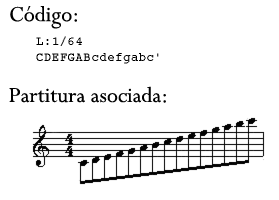
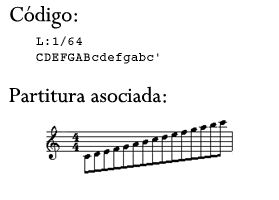
+ todos los cambios hechos a la doc

Changed region(s): [[0.1147, 0.57, 0.9462, 0.93]]

diff --git a/doc/16_conclusiones.tex b/doc/16_conclusiones.tex
@@ -7,10 +7,10 @@ El objetivo inicial del proyecto era, como se ha detallado a lo largo del docume
 
 
 
-Para llevar a cabo la aplicación, ésta se ha dividido en dos módulos independientes que trabajan de forma secuencial: el módulo de análisis de imagen en primer lugar, y el módulo encargado de la composición musical en segundo; los cuales se pueden asemejar a la etapa de estimulación visual y a la etapa de estimulación auditiva, respectivamente. Esta distinción ha dado la posibilidad de estudiar y probar las etapas de forma independiente y así poder experimentar las diferentes formas de abordar la interpretación música-imagen. Cabe destacar que, dado que esta relación debe ser objetiva y no dependiente de consideraciones culturales o personales (por especificación del sistema), se ha elegido la sinestesia como método de asociación entre la percepción visual y la auditiva.\\
+Para llevar a cabo la aplicación, ésta se ha dividido en dos módulos independientes que trabajan de forma secuencial: el módulo de análisis de imagen en primer lugar, y el módulo encargado de la composición musical en segundo; los cuales se pueden asemejar a la etapa de estimulación visual y a la etapa de estimulación auditiva, respectivamente. Esta distinción ha dado la posibilidad de estudiar y probar las etapas de manera independiente y así poder experimentar las diferentes formas de abordar la interpretación música-imagen. Cabe destacar que, dado que esta relación debe ser objetiva y no dependiente de consideraciones culturales o personales (por especificación del sistema), se ha elegido la sinestesia como método de asociación entre la percepción visual y la auditiva.\\
 
 
-Por un lado, el módulo de análisis ha resultado ser capaz de transformar cualquier tipo de imagen de entrada en una representación propia del sistema de forma suficientemente fiel en un espacio de tiempo corto (segundos): dada una correcta configuración de parámetros por parte del usuario, las imágenes de grandes dimensiones pueden ser tratadas con menos nivel de detalle para aumentar su velocidad. Además, se puede cambiar la manera de reconocer formas alternando entre los distintos algoritmos de análisis, permitiendo al usuario experimentar con la forma en la que quiere que una imagen sea captada. La correcta elaboración de este módulo ha sido una pieza clave para el desarrollo del proyecto ya que, aunque no sea el objetivo principal del mismo, proporciona la entrada al módulo de composición y por tanto una pieza clave para el perfecto funcionamiento de la generación de música.\\
+Por un lado, el módulo de análisis ha resultado ser capaz de transformar cualquier tipo de imagen de entrada en una representación propia del sistema de forma suficientemente fiel en un espacio de tiempo corto (segundos): dada una correcta configuración de parámetros por parte del usuario, las imágenes de grandes dimensiones pueden ser tratadas con menos nivel de detalle para aumentar su velocidad. Además, se puede cambiar la manera de reconocer formas alternando entre los distintos algoritmos de análisis, permitiendo al usuario experimentar con la forma en la que quiere que una imagen sea captada. La correcta elaboración de este módulo ha sido esencial para el desarrollo del proyecto ya que, aunque no sea el objetivo principal del mismo, proporciona la entrada al módulo de composición y por tanto es una pieza clave para el perfecto funcionamiento de la generación de música.\\
 
 Por otro lado, el módulo de composición ha cumplido con las expectativas mencionadas a lo largo del documento, siendo capaz de componer piezas musicales completamente originales que, si bien no buscan propiedades como ser ``pegadizas'', en ningún momento dejan de ser agradables al oído. Además, el módulo permite al usuario cambiar la forma de componer cada voz, así como los instrumentos con los que se interpretará cada una de ellas.\\
 
@@ -76,10 +76,10 @@ existen actualmente compositores algorítmicos que toman como entrada los parám
 
 		\item\textit{Ampliación de descripción del color de una figura:} la aplicación actual, con el objetivo de simplificar el proceso de análisis, sólo reconoce un color para cada figura reconocida. Sin embargo, la figura puede experimentar dentro de ella una variación de colores (aunque sea dentro de pequeños rangos), hecho que el sistema simplifica calculando el color medio. Esta ampliación consistiría en investigar una manera de detectar esa variación interna de color de forma que se consiga una representación más fiel de la figura.
 	\end{itemize}
-	
+
 \item\textbf{Portar la aplicación a sistemas Apple.} Con esto se conseguiría expandir el número de posibles usuarios de la aplicación. Dado que las máquinas con sistema operativo de Apple funcionan con UNIX como base, esta ampliación puede resultar muy sencilla si se parte de la versión para Linux de la aplicación.
 
-\item\textbf{Portar la aplicación a sistemas móviles.} Una de las ideas iniciales que se debatieron antes de comenzar el desarrollo de la aplicación fue la de implementar el sistema como una aplicación móvil. Sin embargo, al realizar el estudio de alcance del proyecto y el tiempo de desarrollo del mismo, se desechó la idea. Sin embargo, una aplicación de esta índole puede alcanzar un gran éxito en estos dispositivos ya que las cámaras integradas de los mismos proporcionan una entrada gráfica fácil y sencilla, lo cual sumado a la facilidad de uso del sistema, proporcionan a la aplicación un gran atractivo.\\ 
+\item\textbf{Portar la aplicación a sistemas móviles.} Una de las ideas iniciales que se debatieron antes de comenzar el desarrollo de la aplicación fue la de implementar el sistema como una aplicación móvil. Sin embargo, al realizar el estudio de alcance del proyecto y el tiempo de desarrollo del mismo, se desechó la idea. Sin embargo, una aplicación de esta índole puede alcanzar un gran éxito en estos dispositivos ya que las cámaras integradas de los mismos proporcionan una entrada gráfica fácil y sencilla, lo cual sumado a la facilidad de uso del sistema proporcionan a la aplicación un gran atractivo.\\ 
 
 El sistema se ha diseñado para facilitar la implementación de dicha ampliación, eligiendo librerías disponibles tanto en sistemas operativos de ordenadores personales como de dispositivos móviles (ver Sección~\ref{chap:techs}).\\
 

diff --git a/doc/7_intro.tex b/doc/7_intro.tex
@@ -73,11 +73,11 @@ A continuación, se procede a explicar las diferentes características del siste
 
 El diseño realizado para el sistema, incluyendo la especificación de los algoritmos usados tanto en el análisis de imagen como en la composición musical, se presenta en el Capítulo~\ref{chap:diseno}, \textit{\nameref{chap:diseno}}. En él, se detallan los usuarios a los que está orientada la aplicación, así como la totalidad de los requisitos que detallan las funcionalidades de la aplicación final. En el resto del capítulo se expone la especificación de los algoritmos desarrollados, ya sean pertenecientes a la fase de análisis o a la fase de composición musical.\\
 
-En el siguiente Capítulo, \textit{\nameref{chap:arquitectura}}, se detalla de forma exhaustiva la implementación el sistema mediante el estándar UML. Cada sección de este capítulo hace referencia a cada uno de los módulos en los que se ha dividido la arquitectura del sistema, con la excepción de las dos primeras secciones. En ellas, se define la estructura diseñada e implementada en dos piezas claves en la realización de este proyecto: el formato de representación interna de una imagen y el de una pieza musical. Estos formatos y sus correspondientes implementaciones son usados por todos los módulos definidos a continuación. Estos módulos se ordenan en el documento por orden de importancia, siendo el primero de ellos el módulo de composición de música, seguido del módulo de análisis de imagen. Finalmente se tiene en cuenta tanto el módulo que se encarga de unificar los anteriores módulos mencionados como la interfaz gráfica desarrollada para facilitar el uso de la aplicación.\\
+En el siguiente Capítulo, \textit{\nameref{chap:arquitectura}}, se detalla de forma exhaustiva la implementación del sistema mediante el estándar UML. Cada sección de este capítulo hace referencia a cada uno de los módulos en los que se ha dividido la arquitectura del sistema, con la excepción de las dos primeras secciones. En ellas, se define la estructura diseñada e implementada de dos piezas claves en la realización de este proyecto: el formato de representación interna de una imagen y el de una pieza musical. Estos formatos y sus correspondientes implementaciones son usados por todos los módulos definidos a continuación. Estos módulos se ordenan en el documento por orden de importancia, siendo el primero de ellos el módulo de composición de música, seguido del módulo de análisis de imagen. Finalmente se tiene en cuenta tanto el módulo que se encarga de unificar los anteriores módulos mencionados como la interfaz gráfica desarrollada para facilitar el uso de la aplicación.\\
 
 El contenido principal del documento finaliza en el Capítulo~\ref{chap:results}, \textit{\nameref{chap:results}}. En él, se repasa el desarrollo del proyecto y los objetivos cumplidos a lo largo del mismo, dando una visión global del sistema implementado. Posteriormente se procede a explicar los diferentes usos y mercados a los que está destinada la aplicación, así como las posibles ampliaciones que se podrían realizar sobre el sistema si se continuara su desarrollo.\\
 
-De forma adicional, el documento presenta un anexo en el que puntualiza las tecnologías usadas en los diferentes módulos que componen la aplicación. Este es el Anexo~\ref{chap:techs}, \textit{\nameref{chap:techs}}.
+De forma adicional, el documento presenta un apéndice en el que puntualiza las tecnologías usadas en los diferentes módulos que componen la aplicación. Este es el Apéndice~\ref{chap:techs}, \textit{\nameref{chap:techs}}.
 
 
 

diff --git a/doc/14b_modulocomposicion.tex b/doc/14b_modulocomposicion.tex
@@ -18,7 +18,7 @@ La implementación realizada sigue el esquema de la Figura~\ref{fig:diagramaclas
 		\label{fig:diagramaclasesMu}
 		\end{figure}
 
-Las clases más importante que podemos observar son:\\
+Las clases más importante que podemos observar son:
 
 \begin{itemize}
 
@@ -74,7 +74,7 @@ Conversión - Audio (color azul Figura~\ref{fig:diagramaclasesMu}):
 	
 	\item \textbf{AudioConvert:} la principal función es convertir los datos que se manejan en los compositores dentro del sistema en un archivo de audio que permita reproducirse.
 
-	\item \textbf{AudioConvertABC:} esta clase implementa una posible solución a la conversión entre nuestra notación musical y una salida estandar de audio. En este caso primero se transforma nuestra notación en un archivo con notación ABC y seguidamente se usa la aplicación externa Abc2midi para convertir el archivo ABC en un archivo de sonido Midi
+	\item \textbf{AudioConvertABC:} esta clase implementa una posible solución a la conversión entre nuestra notación musical y una salida estandar de audio. En este caso primero se transforma nuestra notación en un archivo con notación ABC y seguidamente se usa la aplicación externa Abc2midi para convertir el archivo ABC en un archivo de sonido Midi.
 
 	\item \textbf{AudioConvertWAV:} de forma experimental se desarrolló un sintetizador de sonido que, a partir de nuestra notación, generaba directamente un archivo wav sin compresión. Actualmente no se usa, ya que se obtienen con Abc2midi y Timidity archivos de sonido con mejor calidad y riqueza.
 

diff --git a/doc/14c_moduloanalisis.tex b/doc/14c_moduloanalisis.tex
@@ -5,7 +5,7 @@
 
 El módulo de análisis, como ya se ha comentado, es el encargado de, dada una imagen y una configuración de entrada, producir un archivo XML con la lista de polígonos que componen la imagen. Esta lista debe formar una nueva imagen lo más fiel posible a la imagen de entrada, teniendo en cuenta los ajustes especificados en el archivo de configuración.\\
 
-Este módulo hace un gran uso de la librería externa OpenCV, de la cual se ayuda tanto para tratar imágenes como para componer formas y polígonos.
+Este módulo hace un gran uso de la librería externa OpenCV (Apéndice~\ref{sec:OpenCV}) , de la cual se ayuda tanto para tratar imágenes como para componer formas y polígonos.
 
 \subsection{Vista de implementación}
 
@@ -22,7 +22,7 @@ En ella, se pueden observar las siguientes clases:\\
 
 \begin{itemize}
 
-	\item \textbf{Phic:} Se trata de la clase que controla la completa ejecución de este módulo. Se ocupa de coordinar el resto de clases para que realicen las operaciones requeridas para completar el análisis.
+	\item \textbf{Phic:} se trata de la clase que controla la completa ejecución de este módulo. Se ocupa de coordinar el resto de clases para que realicen las operaciones requeridas para completar el análisis.
 	
 	\item \textbf{Analizer:} realiza todas las operaciones de análisis y se comunica con la librería OpenCV.
 	

diff --git a/doc/18_apendTecnologico.tex b/doc/18_apendTecnologico.tex
@@ -42,7 +42,7 @@ No es el propósito de ese documento realizar un tutorial exhaustivo de dicha no
 		
 		\begin{figure}[!htbp]
 		\centering
-		\includegraphics[scale=0.7]{graphics/abc-example2.png}
+		\includegraphics[scale=0.6]{graphics/abc-example2.png}
 		\caption{Ejemplo de notación ABC}
 		\label{fig:abcexample2}
 		\end{figure}
